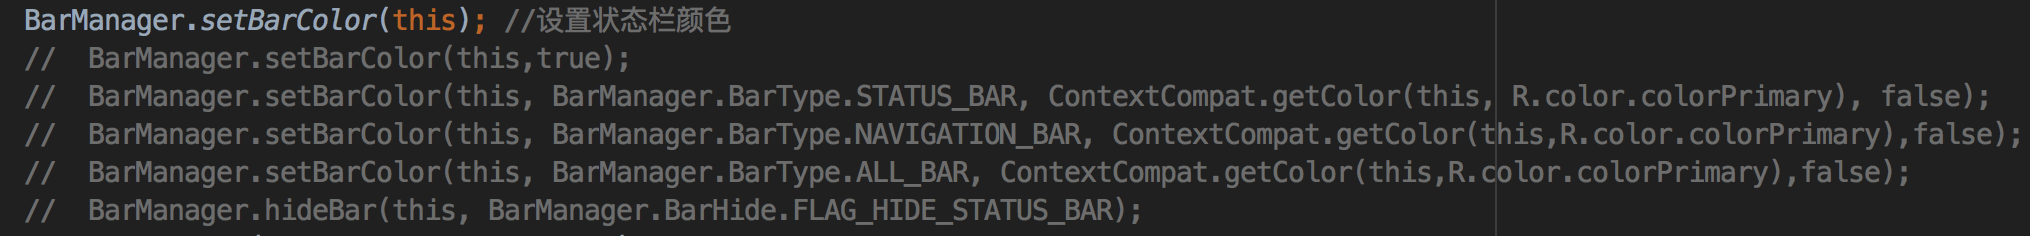
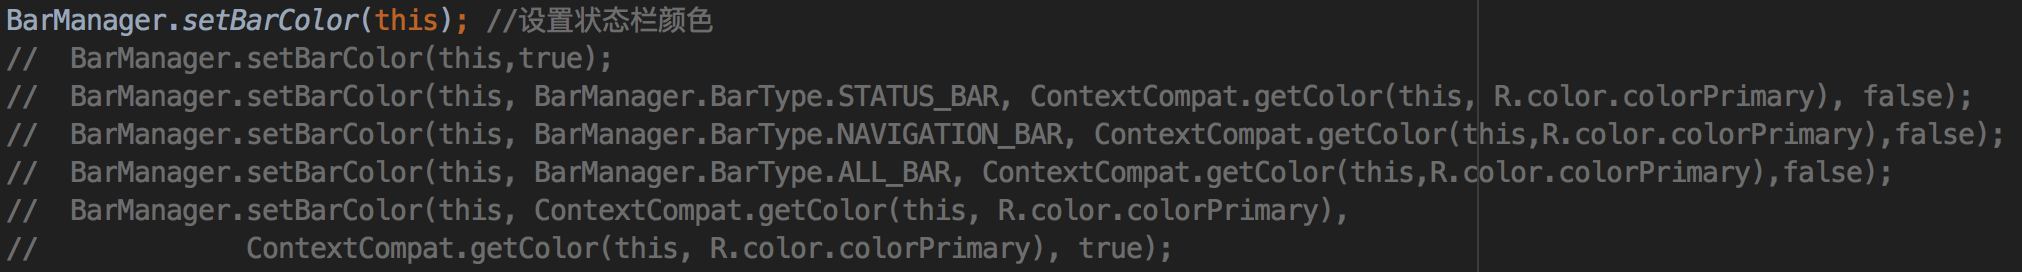
修改readme

Changed region(s): [[0.0, 0.178, 0.997, 0.9788], [0.0, 0.0297, 0.3739, 0.1483]]

diff --git a/sample/src/main/java/com/gyf/immersionbar/MainActivity.java b/sample/src/main/java/com/gyf/immersionbar/MainActivity.java
@@ -31,7 +31,8 @@ public class MainActivity extends AppCompatActivity implements View.OnClickListe
         //  BarManager.setBarColor(this, BarManager.BarType.STATUS_BAR, ContextCompat.getColor(this, R.color.colorPrimary), false);
         //  BarManager.setBarColor(this, BarManager.BarType.NAVIGATION_BAR, ContextCompat.getColor(this,R.color.colorPrimary),false);
         //  BarManager.setBarColor(this, BarManager.BarType.ALL_BAR, ContextCompat.getColor(this,R.color.colorPrimary),false);
-        //  BarManager.hideBar(this, BarManager.BarHide.FLAG_HIDE_STATUS_BAR);
+        //  BarManager.setBarColor(this, ContextCompat.getColor(this, R.color.colorPrimary),
+        //             ContextCompat.getColor(this, R.color.colorPrimary), true);
         setContentView(R.layout.activity_main);
 
         System.out.println(BarManager.getStatusBarHeight(this));
@@ -80,10 +81,10 @@ public class MainActivity extends AppCompatActivity implements View.OnClickListe
                 BarManager.hideBar(this, BarManager.BarHide.FLAG_SHOW_BAR);
                 break;
             case R.id.btn_bar_font_dark:
-                BarManager.setStatusBarDarkFont(this,true);
+                BarManager.setStatusBarDarkFont(this, true);
                 break;
             case R.id.btn_bar_font_light:
-                BarManager.setStatusBarDarkFont(this,false);
+                BarManager.setStatusBarDarkFont(this, false);
                 break;
         }
     }
